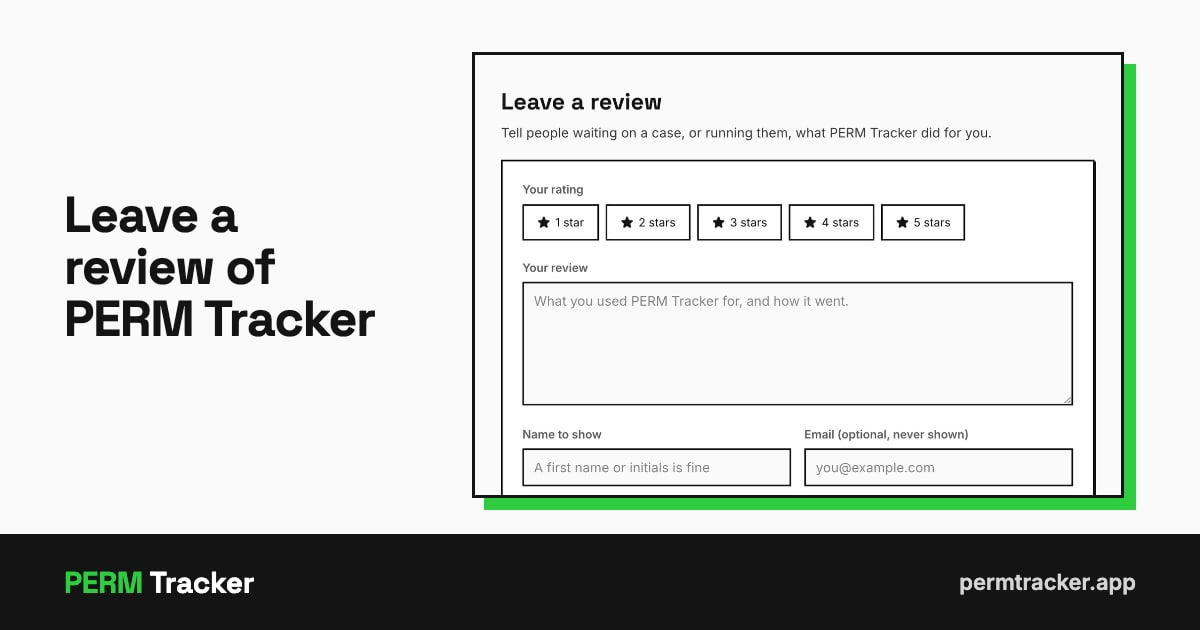
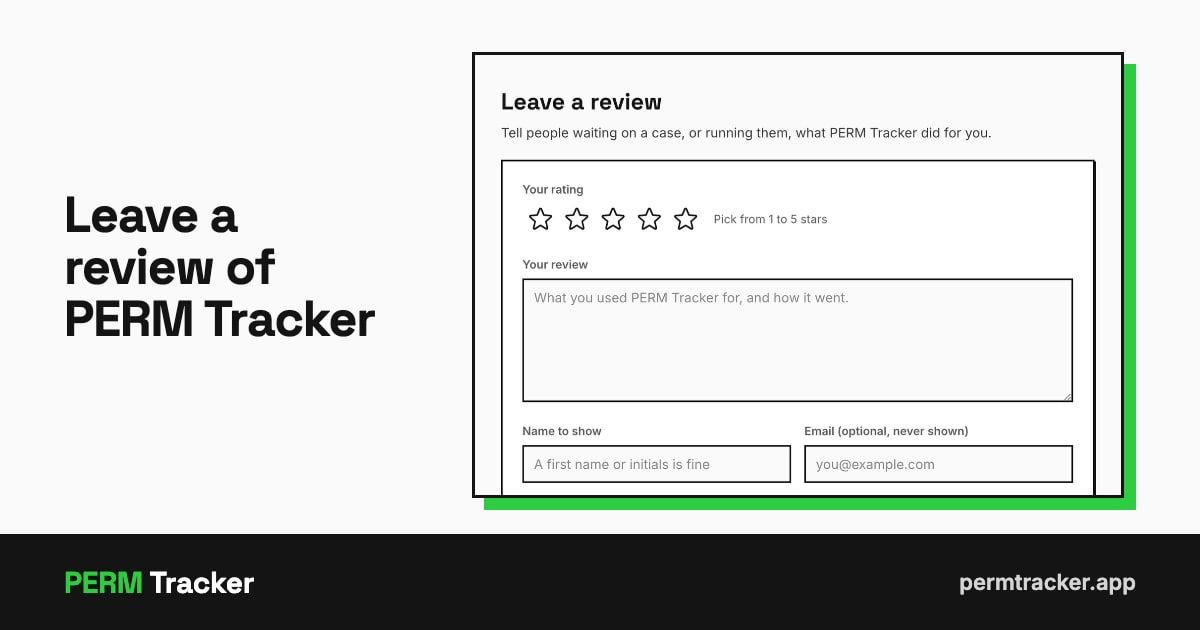
feat(reviews): pick stars by pointing, refuse links, tell scripts from people
- The rating is five empty stars: pointing fills them up to the pointer, a
  click or tap picks, the arrow keys move, and the number is said in words.
- A review or name with a link, a web address or an email address is refused
  with the reason (checkReview); invisible characters are stripped first.
- The route answers a script as if it worked and stores nothing: the hidden
  field filled, or a post sooner than anyone could write one (looksAutomated,
  three seconds from the form appearing).
- The form says up front that links can't be included. Every review still
  waits for the owner before it shows.

Claude-Session: https://claude.ai/code/session_01XYgdcpR3a27fwYMdTXZtsH

Changed region(s): [[0.4317, 0.3016, 0.8942, 0.4825], [0.4317, 0.6333, 0.8942, 0.7841]]

diff --git a/v2/src/components/reviews/ReviewForm.tsx b/v2/src/components/reviews/ReviewForm.tsx
@@ -1,11 +1,10 @@
 "use client";
 
-import { useState } from "react";
+import { useEffect, useRef, useState } from "react";
 import { PaperPlaneTiltIcon, StarIcon } from "@phosphor-icons/react";
 
 import { buttonVariants } from "@/components/ui/button";
 import { CharLimit } from "@/components/ui/char-limit";
-import { choiceVariants } from "@/components/ui/choice";
 import { useQueryParam } from "@/components/ui/pagination";
 import { analytics } from "@/lib/analytics";
 import { convexSiteUrl } from "@/lib/convexSite";
@@ -15,8 +14,12 @@ import { REVIEW_NAME_MAX, REVIEW_TEXT_MAX, REVIEW_TEXT_MIN } from "@convex/lib/s
 /**
  * The site's review form. Posts to the Convex route (`/review/submit`), which owns the shape checks and the
  * budgets; this side owns honest states (sending, sent, refused) and never pretends. Nothing shows until the
- * owner approves it, and the thanks says so. `?rating=4` (from a rating email) picks the stars ahead. The hidden
- * "website" field is the honeypot: people never see it, bots fill it, the route answers as if it worked.
+ * owner approves it, and the thanks says so. `?rating=4` (from a rating email) picks the stars ahead.
+ *
+ * The stars are five radio buttons drawn as empty stars: pointing at one fills the stars up to it, a click or a
+ * tap picks, the arrow keys move between them, and the number picked is said in words beside them. The hidden
+ * "website" field and `elapsed` (time since the form appeared) let the route tell a script from a person
+ * (`looksAutomated`); a script is answered as if it worked and nothing is stored.
  */
 
 type Phase = "idle" | "sending" | "sent" | "error";
@@ -28,6 +31,11 @@ export function ReviewForm() {
   const [phase, setPhase] = useState<Phase>("idle");
   const [note, setNote] = useState("");
   const [picked, setPicked] = useState<number | null>(null);
+  const [pointing, setPointing] = useState<number | null>(null);
+  const shownAt = useRef(0);
+  useEffect(() => {
+    shownAt.current = Date.now();
+  }, []);
   const [fromLink] = useQueryParam("rating");
   const linked = /^[1-5]$/.test(fromLink) ? Number(fromLink) : null;
   const rating = picked ?? linked;
@@ -58,6 +66,7 @@ export function ReviewForm() {
           email: data.get("email"),
           consent: data.get("consent") === "yes",
           website: data.get("website"),
+          elapsed: shownAt.current ? Date.now() - shownAt.current : 0,
         }),
       });
       const body = (await res.json()) as { ok: boolean; message: string };
@@ -89,27 +98,37 @@ export function ReviewForm() {
     <form onSubmit={onSubmit} className="relative border-2 border-border bg-card p-5 shadow-hard-sm sm:p-6">
       <fieldset>
         <legend className="text-sm font-bold text-muted-foreground">Your rating</legend>{" "}
-        <div className="mt-2 flex flex-wrap gap-2">
-          {[1, 2, 3, 4, 5].map((n) => (
-            <label
-              key={n}
-              className={cn(
-                choiceVariants({ on: rating === n }),
-                "cursor-pointer has-[:focus-visible]:ring-2 has-[:focus-visible]:ring-ring",
-              )}
-            >
-              <input
-                type="radio"
-                name="rating"
-                value={n}
-                checked={rating === n}
-                onChange={() => setPicked(n)}
-                className="sr-only"
-              />
-              <StarIcon weight="fill" className="size-4" aria-hidden="true" />
-              {`${n} ${n === 1 ? "star" : "stars"}`}
-            </label>
-          ))}
+        <div className="mt-1 flex flex-wrap items-center gap-x-3">
+          <div className="flex" onMouseLeave={() => setPointing(null)}>
+            {[1, 2, 3, 4, 5].map((n) => {
+              const filled = n <= (pointing ?? rating ?? 0);
+              return (
+                <label
+                  key={n}
+                  onMouseEnter={() => setPointing(n)}
+                  className="grid size-11 cursor-pointer place-items-center has-[:focus-visible]:ring-2 has-[:focus-visible]:ring-ring"
+                >
+                  <input
+                    type="radio"
+                    name="rating"
+                    value={n}
+                    checked={rating === n}
+                    onChange={() => setPicked(n)}
+                    aria-label={`${n} ${n === 1 ? "star" : "stars"}`}
+                    className="sr-only"
+                  />
+                  <StarIcon
+                    weight={filled ? "fill" : "regular"}
+                    className={cn("size-8", filled ? "text-primary" : "text-foreground")}
+                    aria-hidden="true"
+                  />
+                </label>
+              );
+            })}
+          </div>{" "}
+          <span aria-live="polite" className="text-sm text-muted-foreground">
+            {rating ? `${rating} of 5` : "Pick from 1 to 5 stars"}
+          </span>
         </div>
       </fieldset>{" "}
       <label className="mt-5 block">
@@ -162,7 +181,8 @@ export function ReviewForm() {
         <PaperPlaneTiltIcon className="size-4" aria-hidden="true" />
       </button>{" "}
       <p className="mt-3 text-sm text-muted-foreground">
-        We read each review before it shows, and turn away only spam and abuse, never a review for its stars.
+        We read each review before it shows. Links and email addresses can&apos;t be included. We turn away spam and
+        abuse, never a review for its stars.
       </p>
     </form>
   );

diff --git a/v2/convex/lib/siteReview.ts b/v2/convex/lib/siteReview.ts
@@ -10,6 +10,31 @@ export const REVIEW_NAME_MAX = 80;
 const EMAIL_MAX = 254;
 const EMAIL_RE = /^[^\s@]+@[^\s@]+\.[^\s@]{2,}$/;
 
+/**
+ * A link or an address in a review or a name: a scheme, "www.", an email address, or a name ending in a common
+ * top-level domain ("followersnow.com"). Reviews are words about the site, and a link is how review spam pays.
+ * The domain list is deliberately short: "e.g.", "U.S.", "St.Louis" and "2.0" must stay ordinary writing.
+ */
+const LINK_RE =
+  /\b(?:https?|ftp):\/\/|\bwww\.|[^\s@]+@[^\s@]+\.[a-z]{2,}|\b[a-z0-9-]+\.(?:com|net|org|io|app|co|ly|me|info|biz|xyz|ru|cn|top|site|online|link|click|shop|store|live|gg|tv|us|uk|in)\b/i;
+
+/** Characters a person never types on purpose: controls, zero-width marks and direction overrides. */
+const INVISIBLE = /[\u0000-\u0008\u000B\u000C\u000E-\u001F\u007F\u200B-\u200F\u202A-\u202E\u2060-\u2064\uFEFF]/g;
+
+/** A person can't read the form and write ten characters in under this; a script posts at once. */
+export const MIN_FILL_MS = 3000;
+
+/**
+ * A submission a script made: the hidden "website" field filled, or sent sooner after the form appeared than a
+ * person could write a review (`elapsed`, measured by the form). The route answers it as if it worked and stores
+ * nothing, so a bot learns nothing. A real form always sends `elapsed`.
+ */
+export function looksAutomated(body: Record<string, unknown>): boolean {
+  if (typeof body.website === "string" && body.website.trim() !== "") return true;
+  const elapsed = body.elapsed;
+  return typeof elapsed !== "number" || !Number.isFinite(elapsed) || elapsed < MIN_FILL_MS;
+}
+
 export interface ReviewInput {
   rating: number;
   text: string;
@@ -27,13 +52,16 @@ export function checkReview(body: Record<string, unknown>): ReviewCheck {
   if (typeof text !== "string" || typeof name !== "string") {
     return { ok: false, message: "A review and a name are both needed." };
   }
-  const cleanText = text.trim();
-  const cleanName = name.trim().replace(/\s+/g, " ");
+  const cleanText = text.replace(INVISIBLE, "").replace(/[ \t]+/g, " ").trim();
+  const cleanName = name.replace(INVISIBLE, "").trim().replace(/\s+/g, " ");
   if (cleanText.length < REVIEW_TEXT_MIN || cleanText.length > REVIEW_TEXT_MAX) {
     return { ok: false, message: `The review needs ${REVIEW_TEXT_MIN} to ${REVIEW_TEXT_MAX.toLocaleString("en-US")} characters.` };
   }
   if (cleanName.length === 0 || cleanName.length > REVIEW_NAME_MAX) {
     return { ok: false, message: `Give a name up to ${REVIEW_NAME_MAX} characters. A first name or initials is fine.` };
+  }
+  if (LINK_RE.test(cleanText) || LINK_RE.test(cleanName)) {
+    return { ok: false, message: "Reviews can't include links, web addresses or email addresses. Please take them out." };
   }
   let cleanEmail: string | undefined;
   if (email !== undefined && email !== null && email !== "") {

diff --git a/v2/convex/lib/siteReview.test.ts b/v2/convex/lib/siteReview.test.ts
@@ -1,6 +1,6 @@
 import { describe, expect, it } from "vitest";
 
-import { checkReview, REVIEW_NAME_MAX, REVIEW_TEXT_MAX } from "./siteReview";
+import { checkReview, looksAutomated, MIN_FILL_MS, REVIEW_NAME_MAX, REVIEW_TEXT_MAX } from "./siteReview";
 
 const good = { rating: 5, text: "Told me the day my case moved.", name: "Pat", consent: true };
 
@@ -38,5 +38,48 @@ describe("checkReview", () => {
   it("needs the box ticked to show the review", () => {
     expect(checkReview({ ...good, consent: false }).ok).toBe(false);
     expect(checkReview({ ...good, consent: "true" }).ok).toBe(false);
+  });
+
+  it("refuses links, web addresses and email addresses in the review or the name", () => {
+    for (const text of [
+      "Great tool, see https://spam.example for more",
+      "Visit www.cheap-meds.example today, really",
+      "Loved it. Buy followers at followersnow.com now",
+      "Write to me at someone@example.com about it",
+    ]) {
+      const r = checkReview({ ...good, text });
+      expect(r.ok, text).toBe(false);
+      if (!r.ok) expect(r.message).toMatch(/link|address/i);
+    }
+    expect(checkReview({ ...good, name: "Pat from spam.example.com" }).ok).toBe(false);
+  });
+
+  it("keeps ordinary writing that only looks a little like an address", () => {
+    for (const text of [
+      "It helped, e.g. with my RFI. Works in the U.S. and in St.Louis.",
+      "Version 2.0 of my plan worked. Ratio 3.5 to 1.",
+      "My PERM went RFI -> Analyst Review -> Certified.",
+    ]) {
+      expect(checkReview({ ...good, text }).ok, text).toBe(true);
+    }
+  });
+
+  it("strips invisible characters before measuring", () => {
+    const r = checkReview({ ...good, text: "Told me\u200B the day\u202E my case moved.", name: "Pa\u200Dt" });
+    expect(r.ok && r.review.text).toBe("Told me the day my case moved.");
+    expect(r.ok && r.review.name).toBe("Pat");
+  });
+});
+
+describe("looksAutomated", () => {
+  it("passes a person who took their time and left the hidden field empty", () => {
+    expect(looksAutomated({ elapsed: 45_000, website: "" })).toBe(false);
+  });
+
+  it("catches the hidden field filled, a post faster than anyone types, and a post with no timing", () => {
+    expect(looksAutomated({ elapsed: 45_000, website: "https://spam.example" })).toBe(true);
+    expect(looksAutomated({ elapsed: MIN_FILL_MS - 1 })).toBe(true);
+    expect(looksAutomated({})).toBe(true);
+    expect(looksAutomated({ elapsed: "60000" })).toBe(true);
   });
 });

diff --git a/v2/convex/http.ts b/v2/convex/http.ts
@@ -18,7 +18,7 @@ import {
 } from "./lib/mailPages";
 import { RATING_PATH, parseScore } from "./alertRatings";
 import { reviewUrlWithRating } from "../src/lib/constants/externalLinks";
-import { checkReview } from "./lib/siteReview";
+import { checkReview, looksAutomated } from "./lib/siteReview";
 import { THANKS as SITE_REVIEW_THANKS } from "./siteReviews";
 import { normaliseFlagCaseNumber, programOf } from "../src/lib/flagCaseNumber";
 import { confirmOffers, isPermWageRequest, PWD_MATCH_SENTENCE } from "./lib/alertNextSteps";
@@ -787,10 +787,8 @@ http.route({
     }
     if (typeof body !== "object" || body === null) return json({ ok: false, message: "Malformed request." }, 400);
     const fields = body as Record<string, unknown>;
-    // Honeypot: a filled "website" field is a bot. Answer as if it worked, store nothing.
-    if (typeof fields.website === "string" && fields.website.trim() !== "") {
-      return json({ ok: true, message: SITE_REVIEW_THANKS });
-    }
+    // A script (the hidden field filled, or posted faster than anyone can write): answer as if it worked, store nothing.
+    if (looksAutomated(fields)) return json({ ok: true, message: SITE_REVIEW_THANKS });
     const checked = checkReview(fields);
     if (!checked.ok) return json({ ok: false, message: checked.message }, 400);
     const ip = (req.headers.get("x-forwarded-for") ?? "").split(",")[0]?.trim() || "unknown";

diff --git a/v2/convex/__tests__/siteReviews.test.ts b/v2/convex/__tests__/siteReviews.test.ts
@@ -27,7 +27,7 @@ afterEach(() => {
   vi.unstubAllEnvs();
 });
 
-const REVIEW = { rating: 4, text: "It told me the day my case moved.", name: "Pat", consent: true };
+const REVIEW = { rating: 4, text: "It told me the day my case moved.", name: "Pat", consent: true, elapsed: 30_000 };
 
 function post(t: T, body: Record<string, unknown>, ip = "203.0.113.7") {
   return t.fetch("/review/submit", {
@@ -59,6 +59,21 @@ describe("the review form's route", () => {
     const t = createTestContext();
     const res = await post(t, { ...REVIEW, website: "https://spam.example" });
     expect(res.status).toBe(200);
+    expect(await rows(t)).toHaveLength(0);
+  });
+
+  it("answers a post faster than anyone could write as if it worked, and stores nothing", async () => {
+    const t = createTestContext();
+    const res = await post(t, { ...REVIEW, elapsed: 400 });
+    expect(res.status).toBe(200);
+    expect(await rows(t)).toHaveLength(0);
+  });
+
+  it("refuses a review carrying a link, and says why", async () => {
+    const t = createTestContext();
+    const res = await post(t, { ...REVIEW, text: "Great site, also try https://spam.example" });
+    expect(res.status).toBe(400);
+    expect((await res.json()).message).toMatch(/links/);
     expect(await rows(t)).toHaveLength(0);
   });
 

diff --git a/v2/src/components/reviews/__tests__/ReviewForm.test.tsx b/v2/src/components/reviews/__tests__/ReviewForm.test.tsx
@@ -1,0 +1,21 @@
+import { fireEvent, render, screen } from "@testing-library/react";
+import { describe, expect, it } from "vitest";
+
+import { ReviewForm } from "../ReviewForm";
+
+describe("ReviewForm's stars", () => {
+  it("are five empty stars, each a labelled radio, until one is picked", () => {
+    render(<ReviewForm />);
+    const stars = screen.getAllByRole("radio");
+    expect(stars.map((s) => s.getAttribute("aria-label"))).toEqual(["1 star", "2 stars", "3 stars", "4 stars", "5 stars"]);
+    expect(stars.every((s) => !(s as HTMLInputElement).checked)).toBe(true);
+    expect(screen.getByText("Pick from 1 to 5 stars")).toBeTruthy();
+  });
+
+  it("picks on a click and says the number in words", () => {
+    render(<ReviewForm />);
+    fireEvent.click(screen.getByLabelText("3 stars"));
+    expect((screen.getByLabelText("3 stars") as HTMLInputElement).checked).toBe(true);
+    expect(screen.getByText("3 of 5")).toBeTruthy();
+  });
+});
